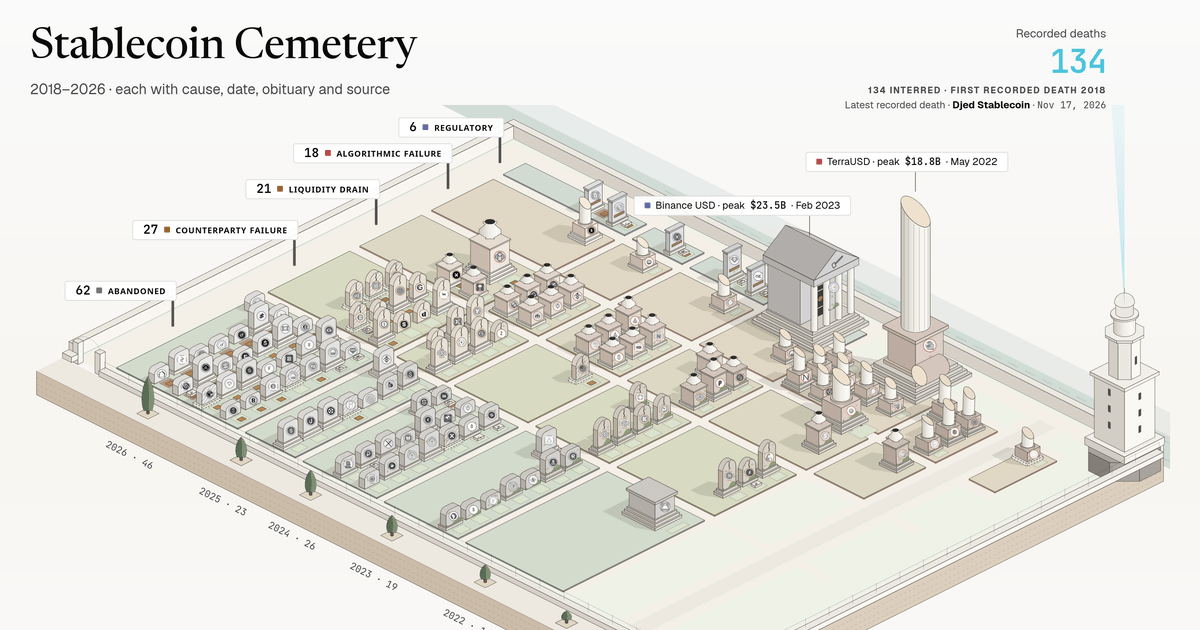
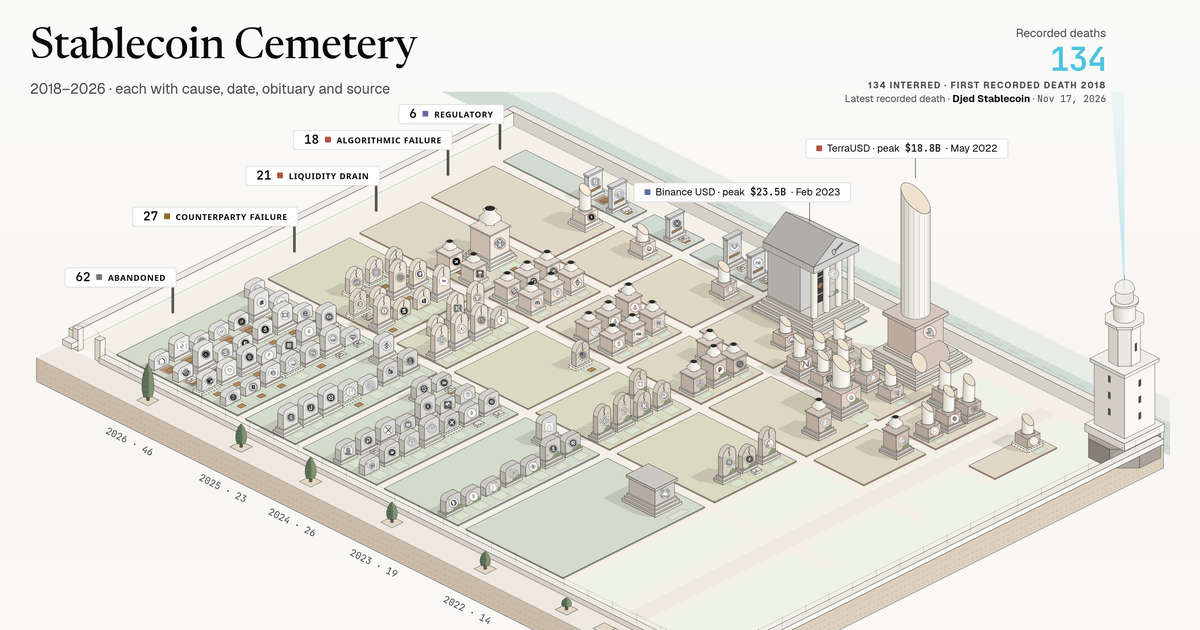
fix(ci): refresh og-cemetery, fix architecture boundaries, and align updated tests
- Regenerate public/og-cemetery.png and its signature after Phase 1/5 CSS token updates.
- Move safety-card-helpers and YieldContentLoadingState into src/components/ so components do not import from src/app/ (frontend-routes architecture boundary).
- Mock passive useStabilityIndex/usePegSummary fallback hooks in homepage-evidence.test.tsx and align daily-digest-card and command-palette-actions tests with updated copy and #freeze-seizure routing.

diff --git a/src/app/safety-scores/v9-view-model.ts b/src/app/safety-scores/v9-view-model.ts
@@ -1,11 +1,13 @@
 import { formatCurrency } from "@shared/lib/format";
-import { PEG_METADATA } from "@shared/lib/classification";
 import { pegTypeFromCurrency } from "@shared/lib/peg-taxonomy";
 import { CLIENT_TRACKED_META_BY_ID } from "@shared/lib/stablecoins/client-registry";
 import { gradeRange, scoreToGrade } from "@shared/lib/report-card-core";
 import { getCirculatingRawOrNull } from "@shared/lib/supply";
 import type { SafetyGradeSupplyMix } from "@/components/safety-scores/safety-grade-distribution-bar";
-import type { SafetyScoreTopDriverProps } from "@/components/safety-scores/safety-score-top-driver";
+import {
+  resolveSafetyCardMeta,
+  type V9SortKey,
+} from "@/components/safety-scores/safety-card-helpers";
 import {
   describePartialEvidence,
   formatPartialEvidenceHeadline,
@@ -14,7 +16,7 @@ import {
 import { humanizeSafetyScoreV9Value } from "@/lib/stablecoin-safety-score-v9-presentation";
 import type { V9TableConsumerCard as V9ConsumerCard } from "@/lib/safety-score-v9-consumers";
 
-export type V9SortKey = "overall" | "backing" | "exit" | "control" | "mcap" | "coin";
+export { resolveSafetyCardMeta, type V9SortKey };
 export type V9SortDirection = "asc" | "desc";
 export type SafetyScoresViewMode = "table" | "grid";
 export type GradeFilter = "all" | "A" | "B" | "C" | "D" | "F" | "NR" | "pipeline-gap";
@@ -35,51 +37,6 @@ const PILLAR_LABELS = {
   exit: "Exit",
   control: "Economic Control",
 } as const;
-
-export interface SafetyCardMeta {
-  name: string;
-  symbol: string;
-  pegLabel: string;
-}
-
-export function resolveSafetyCardMeta(card: Pick<V9ConsumerCard, "id">): SafetyCardMeta {
-  const meta = CLIENT_TRACKED_META_BY_ID.get(card.id);
-  const pegCurrency = meta?.flags.pegCurrency;
-  const pegLabel = pegCurrency ? (PEG_METADATA[pegCurrency]?.filterLabel ?? pegCurrency) : "—";
-  return {
-    name: meta?.name ?? card.id,
-    symbol: meta?.symbol ?? card.id,
-    pegLabel,
-  };
-}
-
-/**
- * The table projection names a binding cap or a withheld score, but not the
- * peg multiplier, so an uncapped card shows no driver rather than a weakest
- * pillar that may not have set its grade (docs/report-cards.md#consumers).
- */
-export function resolveSafetyCardTopDriver(
-  card: V9ConsumerCard,
-): SafetyScoreTopDriverProps["driver"] {
-  if (card.ratingStatus === "not-rated") {
-    const rawReason = card.nrReasons[0]?.message;
-    return {
-      kind: "withheld",
-      label: null,
-      value: null,
-      reason: rawReason ? humanizeSafetyScoreReason(rawReason) : "Required evidence is withheld.",
-    };
-  }
-  if (card.bindingCap !== null) {
-    return {
-      kind: "cap-bound",
-      label: card.bindingCap.kind,
-      value: card.bindingCap.limit,
-      reason: humanizeSafetyScoreReason(card.bindingCap.reason),
-    };
-  }
-  return null;
-}
 
 export function formatSafetyCardTopDriverExport(card: V9ConsumerCard): string {
   if (card.ratingStatus === "not-rated") {

diff --git a/src/components/safety-scores/safety-card-helpers.ts b/src/components/safety-scores/safety-card-helpers.ts
@@ -1,0 +1,52 @@
+import { PEG_METADATA } from "@shared/lib/classification";
+import { CLIENT_TRACKED_META_BY_ID } from "@shared/lib/stablecoins/client-registry";
+import type { SafetyScoreTopDriverProps } from "@/components/safety-scores/safety-score-top-driver";
+import { humanizeSafetyScoreReason } from "@/lib/safety-score-reason-labels";
+import type { V9TableConsumerCard as V9ConsumerCard } from "@/lib/safety-score-v9-consumers";
+
+export type V9SortKey = "overall" | "backing" | "exit" | "control" | "mcap" | "coin";
+
+interface SafetyCardMeta {
+  name: string;
+  symbol: string;
+  pegLabel: string;
+}
+
+export function resolveSafetyCardMeta(card: Pick<V9ConsumerCard, "id">): SafetyCardMeta {
+  const meta = CLIENT_TRACKED_META_BY_ID.get(card.id);
+  const pegCurrency = meta?.flags.pegCurrency;
+  const pegLabel = pegCurrency ? (PEG_METADATA[pegCurrency]?.filterLabel ?? pegCurrency) : "—";
+  return {
+    name: meta?.name ?? card.id,
+    symbol: meta?.symbol ?? card.id,
+    pegLabel,
+  };
+}
+
+/**
+ * The table projection names a binding cap or a withheld score, but not the
+ * peg multiplier, so an uncapped card shows no driver rather than a weakest
+ * pillar that may not have set its grade (docs/report-cards.md#consumers).
+ */
+export function resolveSafetyCardTopDriver(
+  card: V9ConsumerCard,
+): SafetyScoreTopDriverProps["driver"] {
+  if (card.ratingStatus === "not-rated") {
+    const rawReason = card.nrReasons[0]?.message;
+    return {
+      kind: "withheld",
+      label: null,
+      value: null,
+      reason: rawReason ? humanizeSafetyScoreReason(rawReason) : "Required evidence is withheld.",
+    };
+  }
+  if (card.bindingCap !== null) {
+    return {
+      kind: "cap-bound",
+      label: card.bindingCap.kind,
+      value: card.bindingCap.limit,
+      reason: humanizeSafetyScoreReason(card.bindingCap.reason),
+    };
+  }
+  return null;
+}

diff --git a/src/components/__tests__/home-alt-mini-card-grid.test.tsx b/src/components/__tests__/home-alt-mini-card-grid.test.tsx
@@ -91,9 +91,9 @@ describe("DailyDigestCard full-width editorial strip", () => {
     render(<QueryClientProvider client={client}><DailyDigestCard /></QueryClientProvider>);
 
     expect(screen.getByRole("heading", { name: "Daily Digest" })).toBeTruthy();
-    expect(screen.getByText(/Current headline/).textContent).toBe("#400 — Current headline");
-    expect(screen.getByText(/Previous headline/).textContent).toBe("Nov 14, 2023 · #399 — Previous headline");
-    expect(screen.getByText(/Earlier headline/).textContent).toBe("Nov 14, 2023 · #398 — Earlier headline");
+    expect(screen.getByText(/Current headline/).textContent).toBe("#400: Current headline");
+    expect(screen.getByText(/Previous headline/).textContent).toBe("Nov 14, 2023 · #399: Previous headline");
+    expect(screen.getByText(/Earlier headline/).textContent).toBe("Nov 14, 2023 · #398: Earlier headline");
     expect(screen.getByText("Current excerpt.")).toBeTruthy();
   });
 

diff --git a/src/app/safety-scores/v9-view-model.test.ts b/src/app/safety-scores/v9-view-model.test.ts
@@ -3,6 +3,7 @@ import { makeV9Card } from "@/test/fixtures/safety-score-v9";
 import { makeReportCardsV9PartialCard, makeReportCardsV9PipelineGapCard } from "@shared/test-utils/report-cards-v9";
 import { NUMERIC_INPUT_STATES } from "@shared/test-utils/boundary-contract-vectors.test-support";
 import { projectV9TableCard } from "@shared/lib/report-cards-v9-projections";
+import { resolveSafetyCardTopDriver } from "@/components/safety-scores/safety-card-helpers";
 import {
   buildSafetyMcapMap,
   buildSafetyPegTypeMap,
@@ -14,7 +15,6 @@ import {
   formatSafetyCardTopDriverExport,
   groupV9CardsByGrade,
   resolveSafetyCardMeta,
-  resolveSafetyCardTopDriver,
 } from "./v9-view-model";
 
 describe("Safety Scores view model", () => {

diff --git a/src/components/safety-scores/report-card-mini-v9.tsx b/src/components/safety-scores/report-card-mini-v9.tsx
@@ -7,7 +7,7 @@ import { Card, CardContent } from "@/components/ui/card";
 import { CompareRadarV9 } from "@/components/compare/radar-chart-v9";
 import { SafetyGradeBadge } from "@/components/safety-scores/safety-grade-badge";
 import { SafetyScoreTopDriver } from "@/components/safety-scores/safety-score-top-driver";
-import { resolveSafetyCardTopDriver } from "@/app/safety-scores/v9-view-model";
+import { resolveSafetyCardTopDriver } from "@/components/safety-scores/safety-card-helpers";
 import { StablecoinLogo } from "@/components/stablecoin-logo";
 import { buildStablecoinUrl } from "@shared/lib/urls";
 import { GRADE_RADAR_COLORS, PEG_METADATA } from "@shared/lib/classification";

diff --git a/src/components/__tests__/command-palette-actions.test.ts b/src/components/__tests__/command-palette-actions.test.ts
@@ -53,8 +53,8 @@ describe("command palette action helpers", () => {
 
     const sectionParsed = parsePaletteInput("usdc freeze");
     const sectionPreview = buildVerbPreview(sectionParsed);
-    expect(sectionPreview).toMatchObject({ runnable: true, label: "USD Coin · Freeze & Blacklist" });
+    expect(sectionPreview).toMatchObject({ runnable: true, label: "USD Coin · Freeze & Seizure" });
     expect(executeParsedVerb(sectionParsed, executor)).toBe(true);
-    expect(executor.push).toHaveBeenCalledWith("/stablecoin/usdc-circle/#activity");
+    expect(executor.push).toHaveBeenCalledWith("/stablecoin/usdc-circle/#freeze-seizure");
   });
 });

diff --git a/src/components/yield/yield-client.tsx b/src/components/yield/yield-client.tsx
@@ -4,7 +4,7 @@ import { useMemo, useCallback, useEffect, useRef, useState, type ReactNode } fro
 import Link from "next/link";
 import { StablecoinLogo } from "@/components/stablecoin-logo";
 import { QueryErrorNotice } from "@/components/query-error-notice";
-import { YieldContentLoadingState } from "@/app/yield/loading-state";
+import { YieldContentLoadingState } from "@/components/yield/yield-loading-state";
 import { usePegSummary, useYieldAdapterManifest, useYieldRankingsSummary } from "@/hooks/api-hooks";
 import { useUrlFilters } from "@/hooks/use-url-filters";
 import { getLogoSrc, logosById } from "@/lib/logos";

diff --git a/src/lib/__tests__/homepage-evidence.test.tsx b/src/lib/__tests__/homepage-evidence.test.tsx
@@ -17,6 +17,8 @@ vi.mock("@/lib/homepage-evidence-persistence", () => ({
 }));
 vi.mock("@/hooks/api-hooks", () => ({
   useHomepageSnapshot: () => useQuery({ queryKey: ["homepage-snapshot"], queryFn: liveRead, retry: false }),
+  useStabilityIndex: () => ({ data: undefined, dataUpdatedAt: 0, error: null, meta: null }),
+  usePegSummary: () => ({ data: undefined }),
 }));
 vi.mock("@/components/homepage/home-alt-hero-chart-gate", () => ({ HomeAltHeroChartGate: () => <div /> }));
 vi.mock("@/lib/analytics", () => ({ trackFreshDataReady: vi.fn() }));

diff --git a/src/app/yield/page.tsx b/src/app/yield/page.tsx
@@ -2,7 +2,7 @@ import Link from "next/link";
 import { AlertsHeaderLink } from "@/components/alerts-header-link";
 import { FaqSection } from "@/components/faq-section";
 import { ShareButton } from "@/components/share-button";
-import { YieldContentLoadingState } from "@/app/yield/loading-state";
+import { YieldContentLoadingState } from "@/components/yield/yield-loading-state";
 import { createClientFeaturePage } from "@/lib/client-feature-page";
 import {
   YIELD_METHODOLOGY_CHANGELOG_PATH,

diff --git a/src/components/safety-scores/safety-scores-matrix-table.tsx b/src/components/safety-scores/safety-scores-matrix-table.tsx
@@ -28,7 +28,7 @@ import {
   resolveSafetyCardMeta,
   resolveSafetyCardTopDriver,
   type V9SortKey,
-} from "@/app/safety-scores/v9-view-model";
+} from "@/components/safety-scores/safety-card-helpers";
 
 const MATRIX_REFRESH_QUERY_KEYS: readonly QueryKey[] = [
   FRONTEND_API_QUERY_DESCRIPTORS.reportCardsV9Table.queryKey,
